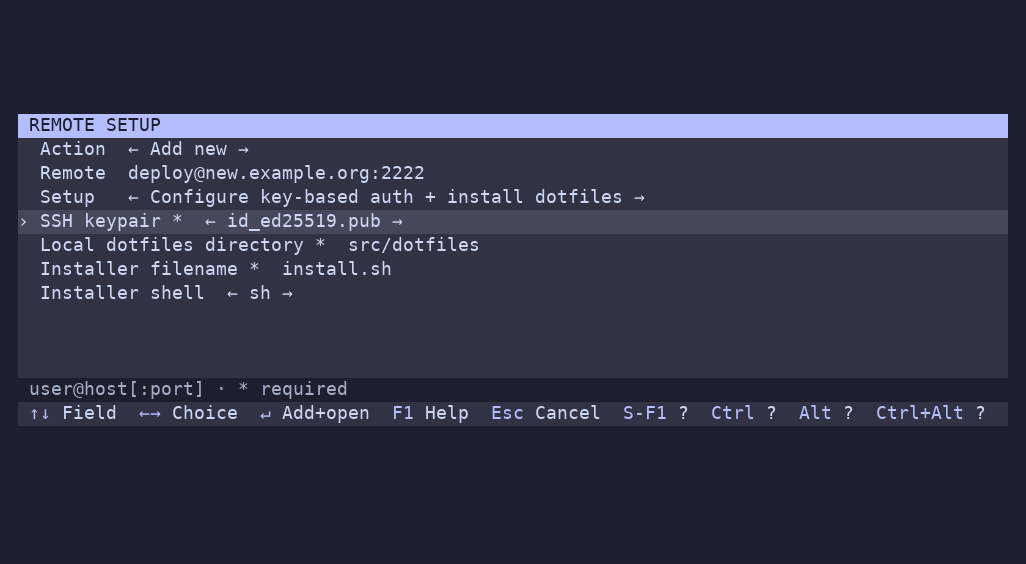
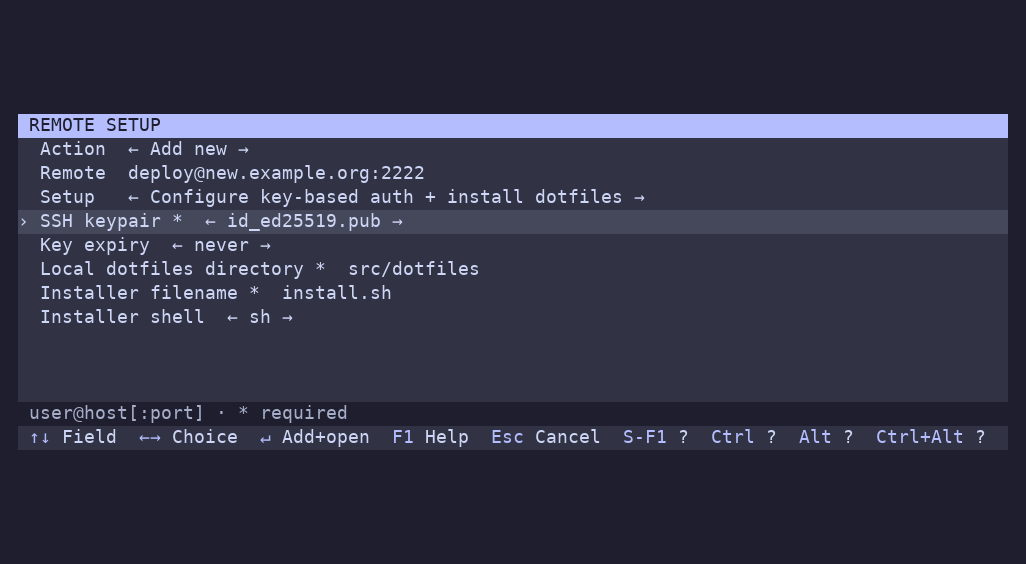
Add key expiry choices to SSH authentication setup recipes

diff --git a/src/preset_tests.rs b/src/preset_tests.rs
@@ -281,3 +281,99 @@ fn dependency_installation_requires_consent_and_verifies_the_result() {
     assert!(!result.status.success());
     assert!(String::from_utf8_lossy(&result.stderr).contains("still unavailable"));
 }
+
+#[test]
+fn key_expiry_updates_all_matching_entries_and_preserves_restrictions() {
+    let env = Sandbox::new("key-expiry");
+    for tool in ["awk", "mktemp", "cp", "cmp", "chmod", "mv", "rm"] {
+        env.link(tool);
+    }
+    let date = Command::new("sh")
+        .args(["-c", "command -v date"])
+        .output()
+        .unwrap();
+    let date = String::from_utf8(date.stdout).unwrap();
+    env.stub(
+        "date",
+        &format!(
+            "if [ \"$1\" = +%s ]; then echo 1704067200; else exec {} \"$@\"; fi",
+            date.trim()
+        ),
+    );
+    fs::create_dir_all(env.0.join(".ssh")).unwrap();
+    let authorized = env.0.join(".ssh/authorized_keys");
+    let prefix = "# ssh-ed25519 AAAATEST commented out\n\nssh-ed25519 OTHER unrelated\n";
+    let restrictions = r#"command="echo \"quoted, text\" expiry-time=keep",no-agent-forwarding"#;
+    let original = format!(
+        "{prefix}{restrictions},expiry-time=\"20200101Z\" ssh-ed25519 AAAATEST comment with spaces\nssh-ed25519 AAAATEST duplicate\n"
+    );
+    let mut p = profile("Configure key-based auth");
+    p.inputs.retain(|input| input.id == "expiry");
+    p.command = "sh -c %{set_expiry} -- %{input:expiry}".into();
+    for (choice, expiry) in [
+        ("8 hours", "20240101080000Z"),
+        ("day", "20240102000000Z"),
+        ("week", "20240108000000Z"),
+        ("month", "20240131000000Z"),
+        ("year", "20241231000000Z"),
+        ("never", ""),
+    ] {
+        fs::write(&authorized, &original).unwrap();
+        stdout(env.run_input(
+            &p,
+            None,
+            Some(("expiry", choice)),
+            b"ssh-ed25519 AAAATEST local comment\n",
+        ));
+        let option = if expiry.is_empty() {
+            String::new()
+        } else {
+            format!("expiry-time=\"{expiry}\"")
+        };
+        let comma = if option.is_empty() { "" } else { "," };
+        let space = if option.is_empty() { "" } else { " " };
+        assert_eq!(
+            fs::read_to_string(&authorized).unwrap(),
+            format!(
+                "{prefix}{restrictions}{comma}{option} ssh-ed25519 AAAATEST comment with spaces\n{option}{space}ssh-ed25519 AAAATEST duplicate\n"
+            )
+        );
+        assert_eq!(
+            fs::metadata(&authorized).unwrap().permissions().mode() & 0o777,
+            0o600
+        );
+    }
+    // Missing keys and malformed choices must leave the file unchanged.
+    fs::write(&authorized, &original).unwrap();
+    assert!(
+        !env.run_input(&p, None, Some(("expiry", "week")), b"ssh-ed25519 MISSING\n")
+            .status
+            .success()
+    );
+    assert_eq!(fs::read_to_string(&authorized).unwrap(), original);
+    p.command = "sh -c %{set_expiry} -- invalid".into();
+    assert!(
+        !env.run_input(&p, None, None, b"ssh-ed25519 AAAATEST\n")
+            .status
+            .success()
+    );
+    assert_eq!(fs::read_to_string(&authorized).unwrap(), original);
+    assert!(!fs::read_dir(env.0.join(".ssh")).unwrap().any(|f| {
+        f.unwrap()
+            .file_name()
+            .to_string_lossy()
+            .starts_with(".ssh-menu-expiry.")
+    }));
+    // Both shipped recipes share the same picker and updater.
+    let dotfiles = profile("Configure key-based auth + install dotfiles");
+    assert_eq!(p.fields["set_expiry"], dotfiles.fields["set_expiry"]);
+    assert_eq!(
+        dotfiles
+            .inputs
+            .iter()
+            .find(|i| i.id == "expiry")
+            .unwrap()
+            .options,
+        ["never", "8 hours", "day", "week", "month", "year"]
+    );
+}

diff --git a/tests/docker/container.py b/tests/docker/container.py
@@ -1,5 +1,6 @@
 """Real SSH, dependency installs and setup recipes, wholly inside one test container."""
 import errno
+from datetime import datetime, timezone
 import fcntl
 import json
 import os
@@ -132,6 +133,12 @@ Subsystem sftp internal-sftp
 AcceptEnv http_proxy https_proxy no_proxy HTTP_PROXY HTTPS_PROXY NO_PROXY
 SetEnv ENV=/home/remote/.profile LANG=C.UTF-8
 ''')
+    effective = subprocess.run(['/usr/sbin/sshd', '-T', '-f', str(config)],
+                               check=True, capture_output=True, text=True).stdout
+    if 'persourcepenalties ' in effective:
+        # This loopback fixture deliberately rejects keys; don't rate-limit later cases.
+        with config.open('a') as file:
+            file.write('PerSourcePenalties no\n')
     Path('/root/.ssh/config').write_text('''Host ssh-menu-docker
   HostName 127.0.0.1
   Port 1
@@ -200,6 +207,34 @@ def run():
         before = Path('/root/.ssh/id_ed25519').read_bytes()
         script('auth-no-overwrite', 'auth-generate', expected=1)
         assert Path('/root/.ssh/id_ed25519').read_bytes() == before
+
+        for choice, seconds in [('8-hours', 28800), ('day', 86400), ('week', 604800),
+                                ('month', 2592000), ('year', 31536000), ('never', 0)]:
+            started = int(remote('date +%s').stdout)
+            script(f'auth-expiry-{choice}')
+            # Reading over a new BatchMode connection also proves sshd accepts the option.
+            authorized = remote('cat "$HOME/.ssh/authorized_keys"').stdout
+            match = re.search(r'expiry-time="(\d{14}Z)"', authorized)
+            if seconds:
+                assert match, f'{choice}: missing expiry-time'
+                deadline = int(datetime.strptime(match[1], '%Y%m%d%H%M%SZ').replace(tzinfo=timezone.utc).timestamp())
+                ended = int(remote('date +%s').stdout)
+                assert started + seconds <= deadline <= ended + seconds
+            else:
+                assert 'expiry-time=' not in authorized
+
+        # Demonstrate enforcement, then renew via the password-authenticated recipe.
+        authorized_file = Path('/home/remote/.ssh/authorized_keys')
+        authorized_file.write_text('expiry-time="20000101000000Z" ' + public + '\n')
+        rejected = remote('true', check=False)
+        assert rejected.returncode == 255 and 'Permission denied' in rejected.stderr
+        CASES.append({'case': 'auth-expired-rejected', 'status': 'passed'})
+        print('PASS auth-expired-rejected', flush=True)
+        script('auth-expired-renew', 'auth-expiry-day')
+        remote('true')
+        script('auth-expiry-reset', 'auth-expiry-never')
+        assert 'expiry-time=' not in remote('cat "$HOME/.ssh/authorized_keys"').stdout
+        assert not list(Path('/home/remote/.ssh').glob('.ssh-menu-expiry.*'))
 
         dotfiles = Path('/root/src/dotfiles')
         dotfiles.mkdir(parents=True)

diff --git a/tests/terminal.py b/tests/terminal.py
@@ -200,7 +200,7 @@ profiles:
     ssh.write_text(original_ssh + 'printf "%s\\n" "$@" >> "$SSH_MENU_TEST_LOG.calls"\n')
     session([ADD_REMOTE, b"dotfiles@example.org:2201", b"\x1b[C", b"\x1b[C", b"\r"])
     assert (root / "command.ssh-copy-id").read_text().splitlines() == ["-p", "2201", "-i", str(root / ".ssh/id_ed25519.pub"), "dotfiles@example.org"]
-    assert (root / "command.scp").read_text().splitlines() == ["-P", "2201", "-r", str(root / "src/dotfiles") + "/.", "dotfiles@example.org:src/dotfiles/"]
+    assert (root / "command.scp").read_text().splitlines() == ["-P", "2201", "-i", str(root / ".ssh/id_ed25519"), "-r", str(root / "src/dotfiles") + "/.", "dotfiles@example.org:src/dotfiles/"]
     assert 'exec "$2" "./$1"' in (root / "command.calls").read_text()
     ssh.write_text(original_ssh)
     # Adding a remote persists through ordinary history, even if no history existed.

diff --git a/src/docker_tests.rs b/src/docker_tests.rs
@@ -91,6 +91,14 @@ fn export_docker_fixtures() {
         let values = p.input_defaults();
         write(id, p.command_with_inputs(&target, &values).unwrap());
         if id == "auth" {
+            for expiry in ["8 hours", "day", "week", "month", "year", "never"] {
+                let mut expiring = values.clone();
+                expiring.insert("expiry".into(), expiry.into());
+                write(
+                    &format!("auth-expiry-{}", expiry.replace(' ', "-")),
+                    p.command_with_inputs(&target, &expiring).unwrap(),
+                );
+            }
             let mut generated = values;
             generated.insert("key".into(), "Generate new Ed25519 key".into());
             write(

diff --git a/docs/setup.md b/docs/setup.md
@@ -25,6 +25,10 @@ The dotfiles sample defaults to local `~/src/dotfiles`, installer `install.sh`, 
 
 Generation runs only after confirming setup, never while opening or canceling the dialog. It uses `ssh-keygen` to create the standard `~/.ssh/id_ed25519` pair, with the terminal restored for its passphrase prompts. No empty passphrase is forced. Existing private or public files (including symlinks) are not overwritten; restore an incomplete pair or choose another existing pair before retrying. Failure stops setup before `ssh-copy-id` or the connection runs. The generated key remains on disk if later setup fails.
 
+Both key-auth recipes offer **Key expiry**: never (default), 8 hours, day, week, month, or year. After copying the key, setup applies OpenSSH's [`expiry-time`](https://man.openbsd.org/sshd.8#expiry-time) option using the server's clock and UTC. Month means 30 days; year means 365 days. **Never** removes an existing expiry for that key. Every matching entry is updated, preserving other restrictions, comments, and unrelated keys. Expiry blocks new authentication; it does not disconnect existing sessions.
+
+The updater expects a regular remote `~/.ssh/authorized_keys` file and an OpenSSH server supporting `expiry-time`. Custom authorized-key locations require adapting the recipe. If the post-copy update fails, setup reports failure, but the copied key remains installed.
+
 Existing configuration files are preserved. To adopt these samples in an existing installation, copy the desired entries under `configuration_scripts` from the [updated example](../ssh-menu-config.example.yml); keep your custom recipes.
 
 Setup defaults to **None**. Configure mode requires a recipe; adding a remote can skip setup. Authentication prompts run with the terminal restored. Failed setup prevents adding or connecting. In configure mode, failures return to the menu so you can retry. Setup is not repeated on later connections. The dialog itself does not edit SSH config; the selected recipe determines what changes on the local or remote machine.

diff --git a/tests/docker/README.md b/tests/docker/README.md
@@ -29,7 +29,7 @@ Images track distribution updates rather than immutable digests so repository/pa
 | Tmux | Decline missing-tool installation; accept and install through the distro package manager; create, detach and reconnect to the same session |
 | Zellij | Decline without installing; verified download into remote `~/.local/bin`; create, detach and reattach to the same session without reinstalling |
 | Monitor | Decline/accept btop installation; start actual btop with the shipped compact config; quit and verify temporary config cleanup; reuse without another prompt |
-| Configure key-based auth | Generate a real Ed25519 key through the recipe; accept an empty passphrase for the disposable test key; authenticate with it; reuse without duplicate authorized keys; reject overwriting it |
+| Configure key-based auth | Generate a real Ed25519 key through the recipe; accept an empty passphrase for the disposable test key; authenticate with it; reuse without duplicate authorized keys; reject overwriting it; verify every expiry duration, expired-key rejection, renewal and removal of expiry |
 | Key auth + dotfiles | Run real ssh-copy-id/scp/SSH; copy dotfiles including hidden files; execute a fixture installer and verify its remote result |
 | Copy terminal definition | Compile a client-only terminfo fixture, export/copy it through the recipe, verify remote infocmp and temporary-file cleanup |
 
